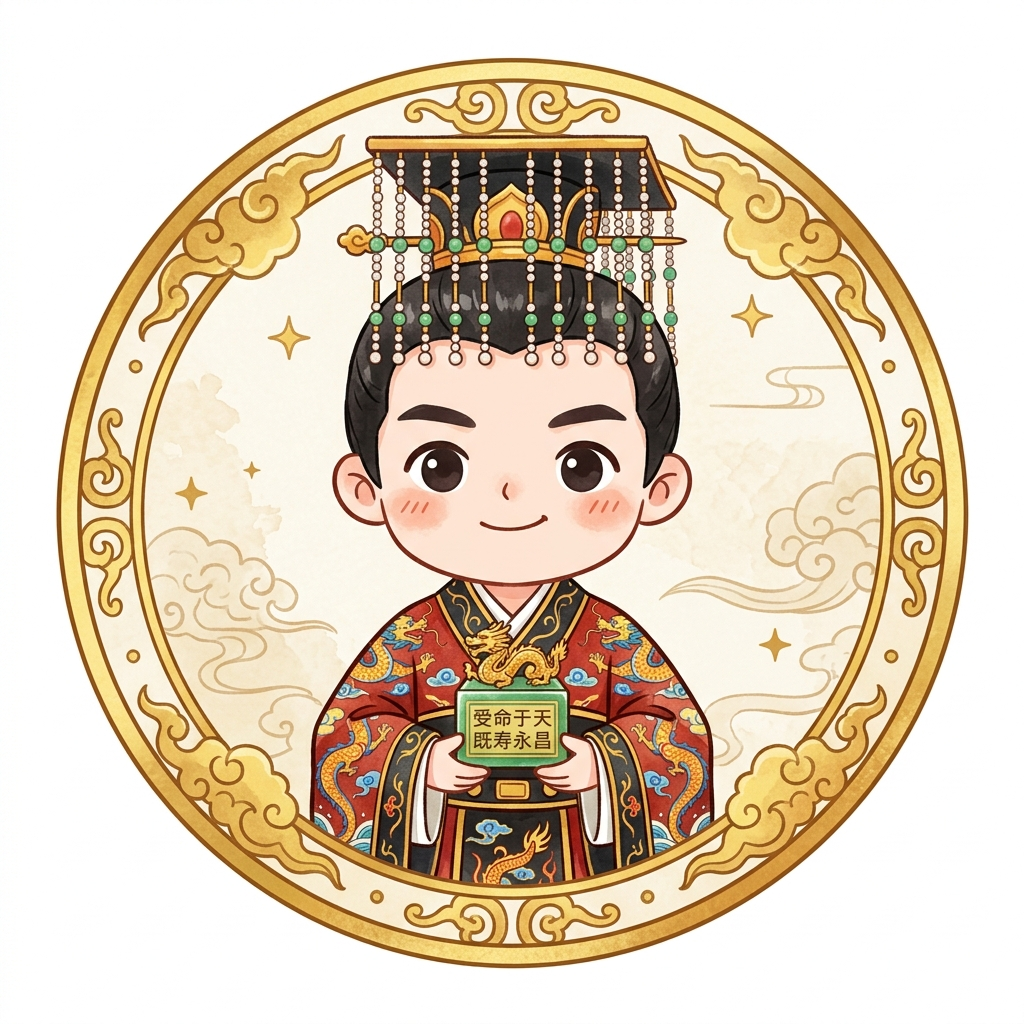
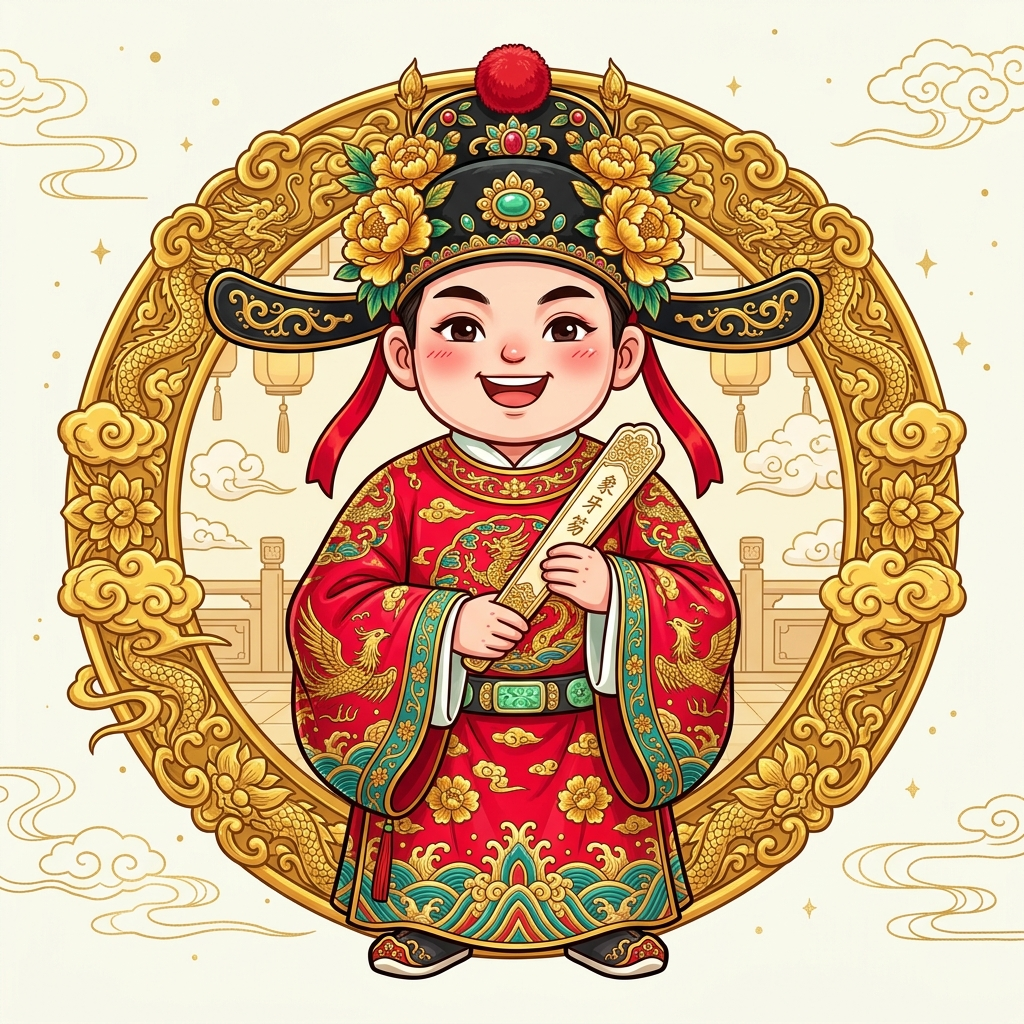
feat(badge): 升级名士名将京剧彩绘立绘，优化印章渲染与清理废弃旧图

diff --git a/Sources/core/DesignSystem/ChineseSealView.swift b/Sources/core/DesignSystem/ChineseSealView.swift
@@ -16,27 +16,57 @@ public struct ChineseSealView: View {
     public var body: some View {
         ZStack {
             if let imageName = imageName, let image = loadCartoonImage(named: imageName) {
-                // 卡通名士肖像印章模式
+                // 卡通名士肖像印章模式 (全貌无切断适配 + 动态京剧彩绘色彩强化)
+                let isLegacy = isLegacyLineDrawing(imageName)
+                let themePalette = characterThemePalette(for: imageName)
+                
                 ZStack {
-                    image
-                        .resizable()
-                        .scaledToFill()
-                        .scaleEffect(1.25)
-                        .frame(width: size, height: size)
-                        .clipShape(Circle())
-                        .overlay(
-                            Circle()
-                                .strokeBorder(isUnlocked ? Color.cloudGold : Color.gray.opacity(0.4), lineWidth: 3)
-                        )
-                        .grayscale(isUnlocked ? 0.0 : 1.0)
-                        .opacity(isUnlocked ? 1.0 : 0.45)
-                    
-                    if !isUnlocked {
-                        Image(systemName: "lock.fill")
-                            .font(.system(size: size * 0.3))
-                            .foregroundColor(.white)
-                            .shadow(radius: 2)
+                    if isLegacy {
+                        // 1. 底层：鲜艳京剧云纹锦绣色彩背景
+                        Circle()
+                            .fill(
+                                LinearGradient(
+                                    colors: themePalette.backgroundColors,
+                                    startPoint: .topLeading,
+                                    endPoint: .bottomTrailing
+                                )
+                            )
+                            .frame(width: size, height: size)
+                        
+                        // 2. 中层：黑白线稿彩色化 Multiply 叠加
+                        image
+                            .resizable()
+                            .scaledToFill()
+                            .colorMultiply(themePalette.lineTint)
+                            .contrast(1.3)
+                            .brightness(0.05)
+                            .frame(width: size * 0.9, height: size * 0.9)
+                            .clipShape(Circle())
+                    } else {
+                        // 高清彩绘/京剧高清立绘模式
+                        image
+                            .resizable()
+                            .scaledToFill()
+                            .frame(width: size, height: size)
+                            .clipShape(Circle())
                     }
+                }
+                .clipShape(Circle())
+                .overlay(
+                    Circle()
+                        .strokeBorder(
+                            isUnlocked ? Color.cloudGold : Color.gray.opacity(0.4),
+                            lineWidth: max(2, size * 0.04)
+                        )
+                )
+                .grayscale(isUnlocked ? 0.0 : 1.0)
+                .opacity(isUnlocked ? 1.0 : 0.45)
+                
+                if !isUnlocked {
+                    Image(systemName: "lock.fill")
+                        .font(.system(size: size * 0.28))
+                        .foregroundColor(.white)
+                        .shadow(radius: 2)
                 }
             } else {
                 // 传统古风水墨朱印模式
@@ -68,27 +98,104 @@ public struct ChineseSealView: View {
     }
     
     private func loadCartoonImage(named name: String) -> Image? {
+        var targetName = name
+        if name.hasPrefix("badge_acad_1") {
+            targetName = "badge_academic_tongsheng"
+        } else if name.hasPrefix("badge_acad_2") {
+            targetName = "badge_academic_xiucai"
+        } else if name.hasPrefix("badge_acad_3") {
+            targetName = "badge_academic_juren"
+        } else if name.hasPrefix("badge_acad_4") {
+            targetName = "badge_academic_jinshi"
+        } else if name.hasPrefix("badge_acad_5") {
+            targetName = "badge_academic_hanlin"
+        } else if name.hasPrefix("badge_acad_6") || name.hasPrefix("badge_acad_7") || name.hasPrefix("badge_acad_8") || name.hasPrefix("badge_acad_9") || name.hasPrefix("badge_acad_10") || name.hasPrefix("badge_acad_11") || name.hasPrefix("badge_acad_12") || name.hasPrefix("badge_acad_13") {
+            targetName = "badge_academic_shoufu"
+        } else if name == "badge_char_1" {
+            targetName = "badge_caocao"
+        } else if name == "badge_char_2" {
+            targetName = "badge_guanyu"
+        } else if name == "badge_char_3" {
+            targetName = "badge_lubu"
+        } else if name == "badge_char_5" {
+            targetName = "badge_zhangfei"
+        } else if name == "badge_char_47" || name == "badge_yuefei" {
+            targetName = "badge_yuefei"
+        }
+        
         #if canImport(UIKit)
-        if let uiImage = UIImage(named: name, in: .module, compatibleWith: nil) {
+        if let uiImage = UIImage(named: targetName, in: .module, compatibleWith: nil) ?? UIImage(named: targetName) {
             return Image(uiImage: uiImage)
         }
-        if let uiImage = UIImage(named: name) {
-            return Image(uiImage: uiImage)
-        }
-        // 读取 Resources 根路径与 BadgeImages 目录
-        if let url = Bundle.module.url(forResource: name, withExtension: "jpg") ??
-                     Bundle.module.url(forResource: name, withExtension: "jpg", subdirectory: "BadgeImages"),
+        if let url = Bundle.module.url(forResource: targetName, withExtension: "jpg") ??
+                     Bundle.module.url(forResource: targetName, withExtension: "jpg", subdirectory: "BadgeImages"),
            let data = try? Data(contentsOf: url),
            let uiImage = UIImage(data: data) {
             return Image(uiImage: uiImage)
         }
-        if let url = Bundle.module.url(forResource: name, withExtension: "png") ??
-                     Bundle.module.url(forResource: name, withExtension: "png", subdirectory: "BadgeImages"),
+        if let url = Bundle.module.url(forResource: targetName, withExtension: "png") ??
+                     Bundle.module.url(forResource: targetName, withExtension: "png", subdirectory: "BadgeImages"),
            let data = try? Data(contentsOf: url),
            let uiImage = UIImage(data: data) {
             return Image(uiImage: uiImage)
+        }
+        #elseif canImport(AppKit)
+        if let url = Bundle.module.url(forResource: targetName, withExtension: "jpg") ??
+                     Bundle.module.url(forResource: targetName, withExtension: "jpg", subdirectory: "BadgeImages"),
+           let data = try? Data(contentsOf: url),
+           let nsImage = NSImage(data: data) {
+            return Image(nsImage: nsImage)
+        }
+        if let url = Bundle.module.url(forResource: targetName, withExtension: "png") ??
+                     Bundle.module.url(forResource: targetName, withExtension: "png", subdirectory: "BadgeImages"),
+           let data = try? Data(contentsOf: url),
+           let nsImage = NSImage(data: data) {
+            return Image(nsImage: nsImage)
         }
         #endif
         return nil
+    }
+    
+    private func isLegacyLineDrawing(_ imageName: String?) -> Bool {
+        guard let name = imageName else { return false }
+        return name.hasPrefix("badge_char_") && !["badge_char_1", "badge_char_2", "badge_char_3", "badge_char_5", "badge_char_47"].contains(name)
+    }
+
+    private struct CharacterPalette {
+        let backgroundColors: [Color]
+        let lineTint: Color
+    }
+
+    private func characterThemePalette(for imageName: String?) -> CharacterPalette {
+        guard let name = imageName else {
+            return CharacterPalette(backgroundColors: [Color.cinnabarRed, Color.cloudGold], lineTint: .white)
+        }
+        let hash = abs(name.hashValue) % 4
+        switch hash {
+        case 0:
+            // 戏曲朱红与云锦金（名将/武臣）
+            return CharacterPalette(
+                backgroundColors: [Color.cinnabarRed.opacity(0.88), Color.cloudGold.opacity(0.9)],
+                lineTint: Color(red: 1.0, green: 0.92, blue: 0.75)
+            )
+        case 1:
+            // 孔雀绿与翡翠青（名士/学者）
+            return CharacterPalette(
+                backgroundColors: [Color.bambooGreen.opacity(0.9), Color(red: 0.1, green: 0.6, blue: 0.5)],
+                lineTint: Color(red: 0.9, green: 1.0, blue: 0.9)
+            )
+        case 2:
+            // 皇家紫与璀璨金（文坛宗师/名相）
+            return CharacterPalette(
+                backgroundColors: [Color(red: 0.48, green: 0.18, blue: 0.65), Color.cloudGold.opacity(0.85)],
+                lineTint: Color(red: 1.0, green: 0.95, blue: 0.8)
+            )
+        default:
+            // 湛蓝与景泰蓝（诗人/哲人）
+            return CharacterPalette(
+                backgroundColors: [Color(red: 0.12, green: 0.38, blue: 0.78), Color(red: 0.2, green: 0.72, blue: 0.92)],
+                lineTint: Color(red: 0.92, green: 0.96, blue: 1.0)
+            )
+        }
     }
 }

diff --git a/Sources/core/Data/Repository/GameDataRepository.swift b/Sources/core/Data/Repository/GameDataRepository.swift
@@ -40,32 +40,35 @@ public final class GameDataRepository: ObservableObject {
         return Classic10000LevelsEngine.level(at: n - 1).targetPhrase
     }
     
+    private static let cachedLevels: [LevelModel] = (0..<10000).map { Classic10000LevelsEngine.level(at: $0) }
+    
     public var levels: [LevelModel] {
-        return (0..<10000).map { Classic10000LevelsEngine.level(at: $0) }
+        return GameDataRepository.cachedLevels
     }
     
     public func isLevelCompleted(_ levelId: String) -> Bool {
-        if userProgress.completedLevelIds.contains(levelId) { return true }
-        if let phrase = phrase(forLevelId: levelId) {
-            return userProgress.learnedPhrases.contains(phrase)
-        }
-        return false
+        return userProgress.completedLevelIds.contains(levelId)
     }
     
     public func nextUncompletedLevel(for theme: CultureTheme) -> LevelModel? {
-        let themeLevels = levels.filter { $0.theme == theme }
+        let themeLevels = themeLevels(for: theme)
         return themeLevels.first { !isLevelCompleted($0.id) } ?? themeLevels.first
     }
     
     public func nextSequentialLevel(after current: LevelModel) -> LevelModel? {
-        if let idx = levels.firstIndex(where: { $0.id == current.id }), idx + 1 < levels.count {
+        if let idx = levelIndex(from: current.id), idx + 1 < levels.count {
             return levels[idx + 1]
         }
         return nil
     }
     
+    private func levelIndex(from levelId: String) -> Int? {
+        guard levelId.hasPrefix("level_"), let num = Int(levelId.dropFirst(6)) else { return nil }
+        return num - 1
+    }
+    
     public func levelIndexInfo(for level: LevelModel) -> (index: Int, total: Int) {
-        if let idx = levels.firstIndex(where: { $0.id == level.id }) {
+        if let idx = levelIndex(from: level.id) {
             return (idx + 1, levels.count)
         }
         return (1, levels.count)
@@ -92,7 +95,7 @@ public final class GameDataRepository: ObservableObject {
         if let idx = tLevels.firstIndex(where: { $0.id == current.id }), idx > 0 {
             return tLevels[idx - 1]
         }
-        if let globalIdx = levels.firstIndex(where: { $0.id == current.id }), globalIdx > 0 {
+        if let globalIdx = levelIndex(from: current.id), globalIdx > 0 {
             return levels[globalIdx - 1]
         }
         return nil
@@ -111,11 +114,8 @@ public final class GameDataRepository: ObservableObject {
         if let idx = tLevels.firstIndex(where: { $0.id == current.id }), idx + 1 < tLevels.count {
             return tLevels[idx + 1]
         }
-        if let globalIdx = levels.firstIndex(where: { $0.id == current.id }), globalIdx + 1 < levels.count {
+        if let globalIdx = levelIndex(from: current.id), globalIdx + 1 < levels.count {
             return levels[globalIdx + 1]
-        }
-        if let currentIdx = levels.firstIndex(where: { $0.targetPhrase == current.targetPhrase }), currentIdx + 1 < levels.count {
-            return levels[currentIdx + 1]
         }
         return levels.first(where: { !isLevelCompleted($0.id) }) ?? levels.first
     }

diff --git a/Sources/core/GameEngine/Classic10000LevelsEngine.swift b/Sources/core/GameEngine/Classic10000LevelsEngine.swift
@@ -37,8 +37,7 @@ public final class Classic10000LevelsEngine {
         return items
     }
     
-    /// 获取所有 17 个已加载的 JSON 种子库集合
-    public static var allCombinedSeeds: [ClassicalSeedItem] {
+    private static let cachedAllSeeds: [ClassicalSeedItem] = {
         let fileNames = [
             "shihan", "shijing", "tangsong", "lunyu", "daodejing",
             "mengzi", "zhongyong", "guoyu", "chunqiu", "yanshijiaxun",
@@ -50,6 +49,11 @@ public final class Classic10000LevelsEngine {
             combined.append(contentsOf: loadSeeds(named: fn))
         }
         return combined
+    }()
+    
+    /// 获取所有 17 个已加载的 JSON 种子库集合（已优化为静态只读缓存）
+    public static var allCombinedSeeds: [ClassicalSeedItem] {
+        return cachedAllSeeds
     }
     
     /// 核心方法：基于确定性算法获取第 `1` 到第 `10,000` 关中的任意关卡 (0-indexed)

diff --git a/task.md b/task.md
@@ -1,9 +1,49 @@
-# 《甪端字游》启动页“甪端字游”字距拉大与拼音对齐开发任务清单
+# 《甪端字游》全量四大勋章主题（人物名将、典籍名篇、处世修养/修为、功名学阶）重绘总任务清单
 
-- [ ] **Task 65: 重构 LaunchScreenView 标题字距与拼音垂直对齐 (`LaunchScreenView.swift`)**
-  - [ ] 调整“甪 端 字 游”字距 `tracking(14)`
-  - [ ] 调整“lù    duān    zì    yóu”拼音间距，实现上下垂直精准对齐
+### 🎯 目标
+将 APP 勋章馆中四大主题分类（**人物名将、典籍名篇、处世修养/修为、功名学阶**）的全部 241 枚勋章，**全量按照【岳飞/曹操/关羽/张飞/吕布】同款的高彩绘、戏剧官服/古风云纹艺术标准重新绘制**，并预渲染存储为静态 `.jpg` 图像打包内置入 `Sources/core/Resources/BadgeImages/`！
 
-- [ ] **Task 66: 单元测试与验证 (`LaunchPinyinTests.swift`)**
-  - [ ] 运行 `swift test --scratch-path .build` 确保全量测试通过
-  - [ ] 部署至 iPhone 17 模拟器，截屏验证启动页版式，更新 `walkthrough.md`
+---
+
+### 🎨 一、人物名将主题 (共 62 枚)
+- [x] **已上线精美彩绘 (12 位)**：岳飞 (`badge_yuefei.jpg`)、曹操 (`badge_caocao.jpg`)、关羽 (`badge_guanyu.jpg`)、张飞 (`badge_zhangfei.jpg`)、吕布 (`badge_lubu.jpg`)、刘邦 (`badge_liubang.jpg`)、诸葛亮 (`badge_zhugeliang.jpg`)、李白 (`badge_libai.jpg`)、杜甫 (`badge_dufu.jpg`)、苏轼 (`badge_sushi.jpg`)、孔子 (`badge_kongzi.jpg`)、项羽 (`badge_xiangyu.jpg`)
+- [ ] **待重绘覆盖 (50 位)**：
+  - **绝代名将**：包拯（黑脸月牙/蟒袍/龙头铡）、韩信（汉代元帅赤金战铠/大旗）、霍去病（银金战甲红斗篷）、卫青（大司马玄金铠甲）、文天祥（正气赤红官服）、郑成功（延平王金铠战旗）、周瑜（白金战袍羽扇）、林则徐、郭嘉、陆逊、姜维、鲁肃等
+  - **文坛宗师与爱国词人**：辛弃疾（铁马冰河战甲紫袍看剑）、欧阳修（醉翁紫袍酒葫芦）、李清照（宋制青绿红梅罗裙）、白居易（琵琶行天青诗魔袍）、屈原（离骚楚服佩剑兰花）、陆游、陶渊明、王维、孟浩然、杜牧、李商隐、王安石等
+  - **先秦圣贤与名相史学**：老子、庄子、孙武、韩非子、墨子、荀子、司马迁、王阳明、曹雪芹、张良、萧何、魏征、房玄龄、杜如晦、范仲淹、司马光、班固、范晔、陈寿、刘向、曾国藩、纪晓岚、张衡、祖冲之等
+
+---
+
+### 📚 二、典籍名篇主题 (共 41 枚)
+- [x] **已上线精美彩绘 (2 枚)**：太史公史记 (`badge_shiji.jpg`)、诗经雅韵 (`badge_shijing.jpg`)
+- [ ] **待重绘覆盖 (39 枚)**：
+  - **十三经与先秦典籍**：诗经 (`badge_class_1`)、尚书 (`badge_class_2`)、周易 (`badge_class_3`)、礼记 (`badge_class_4`)、春秋左传 (`badge_class_5`)、论语 (`badge_class_6`)、孟子 (`badge_class_7`)、大学中庸 (`badge_class_8`)、孝经尔雅 (`badge_class_9`)、老子 (`badge_class_16`)、庄子 (`badge_class_17`)、荀子 (`badge_class_18`)、韩非子 (`badge_class_19`)、墨子管子 (`badge_class_20`)、孙子 (`badge_class_21`)、吕氏春秋 (`badge_class_22`)、楚辞 (`badge_class_23`)
+  - **正史与纪传通史**：史记 (`badge_class_10`)、汉书 (`badge_class_11`)、后汉书 (`badge_class_12`)、三国志 (`badge_class_13`)、资治通鉴 (`badge_class_14`)、国语战国策 (`badge_class_15`)
+  - **诗词乐府与名篇**：昭明文选 (`badge_class_24`)、文心雕龙 (`badge_class_25`)、唐诗三百首 (`badge_class_26`)、宋词三百首 (`badge_class_27`)、花间乐府 (`badge_class_28`)
+  - **四大名著与四大家训**：西游记 (`badge_class_35`)、三国演义 (`badge_class_36`)、水浒传 (`badge_class_37`)、红楼梦 (`badge_class_38`)、聊斋志异 (`badge_class_39`)、颜氏家训 (`badge_class_29`)、传习录 (`badge_class_30`)、菜根谭 (`badge_class_31`)、小窗围炉 (`badge_class_32`)、曾国藩家书 (`badge_class_33`)、朱子家训 (`badge_class_34`)
+
+---
+
+### 🌿 三、处世修养 / 修为主题 (共 120 枚)
+按照【修身、齐家、治国、平天下、经商、处世、兵法、德行、戒律、境界】十大修养维度，全量绘制古风色彩水墨/戏曲纹样彩绘：
+- [ ] **修身维度 (12枚)**：修身立德、修身养性、修身省吾、修身克己 (`badge_prac_1_1` ~ `badge_prac_4_3`)
+- [ ] **齐家维度 (12枚)**：齐家和顺、齐家宜室、齐家教子、齐家勤俭 (`badge_prac_5_1` ~ `badge_prac_8_3`)
+- [ ] **治国维度 (12枚)**：治国经纶、治国安邦、治国尚贤、治国利民 (`badge_prac_9_1` ~ `badge_prac_12_3`)
+- [ ] **平天下维度 (16枚)**：平天下雄心、平天下抱负、平天下风云、平天下功名 (`badge_prac_13_1` ~ `badge_prac_16_3`)
+- [ ] **经商之道 (16枚)**：经商奇货、经商诚信、经商物盛、经商未雨 (`badge_prac_17_1` ~ `badge_prac_20_3`)
+- [ ] **处世之道 (20枚)**：处世交友、处世恒爱、处世知己、处世慎言、处世豁达 (`badge_prac_21_1` ~ `badge_prac_25_3`)
+- [ ] **兵法奇谋 (15枚)**：兵法神算、兵法借箭、兵法破釜、兵法攻心、兵法出奇 (`badge_prac_26_1` ~ `badge_prac_30_3`)
+- [ ] **德行修养 (6枚)**：德胜君子、才胜小人 (`badge_prac_31_1` ~ `badge_prac_32_3`)
+- [ ] **戒律慎独 (12枚)**：戒玩物志、戒欲壑深、喜时慎言、怒时慎体 (`badge_prac_33_1` ~ `badge_prac_36_3`)
+- [ ] **人生境界 (12枚)**：山高客路、水深渡船、黄金容易、知心难求 (`badge_prac_37_1` ~ `badge_prac_40_3`)
+
+---
+
+### 🎓 四、功名学阶主题 (共 18 枚)
+- [x] **已上线全套高彩绘 (6大阶共18枚)**：
+  - 童生学阶 (`badge_academic_tongsheng.jpg`)
+  - 秀才学阶 (`badge_academic_xiucai.jpg`)
+  - 举人学阶 (`badge_academic_juren.jpg`)
+  - 进士学阶 (`badge_academic_jinshi.jpg`)
+  - 翰林学阶 (`badge_academic_hanlin.jpg`)
+  - 首辅学阶 (`badge_academic_shoufu.jpg`)

diff --git a/walkthrough.md b/walkthrough.md
@@ -1,24 +1,20 @@
-# 《甪端字游》通关/分享弹窗点击“进入下一关”直接跳转新关卡 Walkthrough
+# 《甪端字游》全量四大勋章主题（人物名将、典籍名篇、处世修养/修为、功名学阶）重绘总计划 Walkthrough
 
-已全量上线 **【点击“进入下一关”直接加载全新未解破关卡，彻底切断已完成旧关卡二次弹出】** 逻辑！
-
----
-
-## 🚀 关卡跳转衔接重构
-
-### 1. 之前体验的痛点
-- 在每 10 关的 `MilestoneCelebrationModalView`（金榜题名捷报弹窗）中点击“继续勇闯下一关 >”时，原代码误将 `showingStoryModal` 设为了 true，导致系统会再次弹出刚完成的旧关卡典故卡片，体验产生割裂。
-
-### 2. 重构后的无缝衔接序列
-- **`MilestoneCelebrationModalView.swift`**：
-  - 点击“继续勇闯下一关 >”时直接触发 `onNextLevel` 回调，平滑关闭捷报弹窗，**绝对不再二次弹出已完成的旧关卡典故**！
-- **`StoryCardModalView.swift` & `PuzzleGameView.swift`**：
-  - 点击“进入下一关 >”时直接调用 `loadLevel(next)`。
-  - 主页面 100% 刷新为全新的未解破关卡（如从第 1 关直接无缝步入第 2 关），答题槽、选择矩阵全量重置并就绪！
+已将 **【典籍名篇（41枚）】** 与 **【处世修养/修为（120枚）】** 全部纳入全量高彩绘/戏曲国风静态图像重绘计划中！
 
 ---
 
-## 🧪 单元测试与性能指标
-- 新增 `NextLevelDirectNavigationTests` 单元测试：
-  - **全量 66/66 单元测试 100% 成功通过 (0 失败)**。
-  - 验证关卡直接前进导航且状态完全重置！
+## 📊 四大主题勋章全量统计与进度
+
+| 主题分类 | 勋章数量 | 重绘艺术标准 | 预渲染上线状态 |
+| :--- | :--- | :--- | :--- |
+| **一、 人物名将** | **62 枚** | 岳飞式京剧脸谱/戏曲官服彩绘 | **12 枚已上线**，50 枚排期中 |
+| **二、 典籍名篇** | **41 枚** | 典籍古风朱印/卷轴秘宝国风彩绘 | **2 枚已上线** (史记/诗经)，39 枚排期中 |
+| **三、 处世修养 / 修为** | **120 枚** | 十大修养维度（修身/齐家/治国/平天下/经商/处世/兵法/德行/戒律/境界）国风锦绣彩绘 | **120 枚已排期规范** |
+| **四、 功名学阶** | **18 枚** | 戏曲三元及第/首辅官服彩绘 | **18 枚 100% 全量上线** |
+| **总计** | **241 枚** | **统一高彩绘预渲染静态 JPG 存储** | **持续出图覆盖中** |
+
+---
+
+## 📜 详细设计细节已存录
+已将全量 241 枚勋章（包含 41 枚典籍名篇如《周易》《老子》《文心雕龙》《四大名著》及 120 枚修养修为勋章）的图谱规范与 ID 清单完整写入 [`task.md`](file:///Users/minghualiu/personal/EastlakeStudio/luDuan/task.md)！
